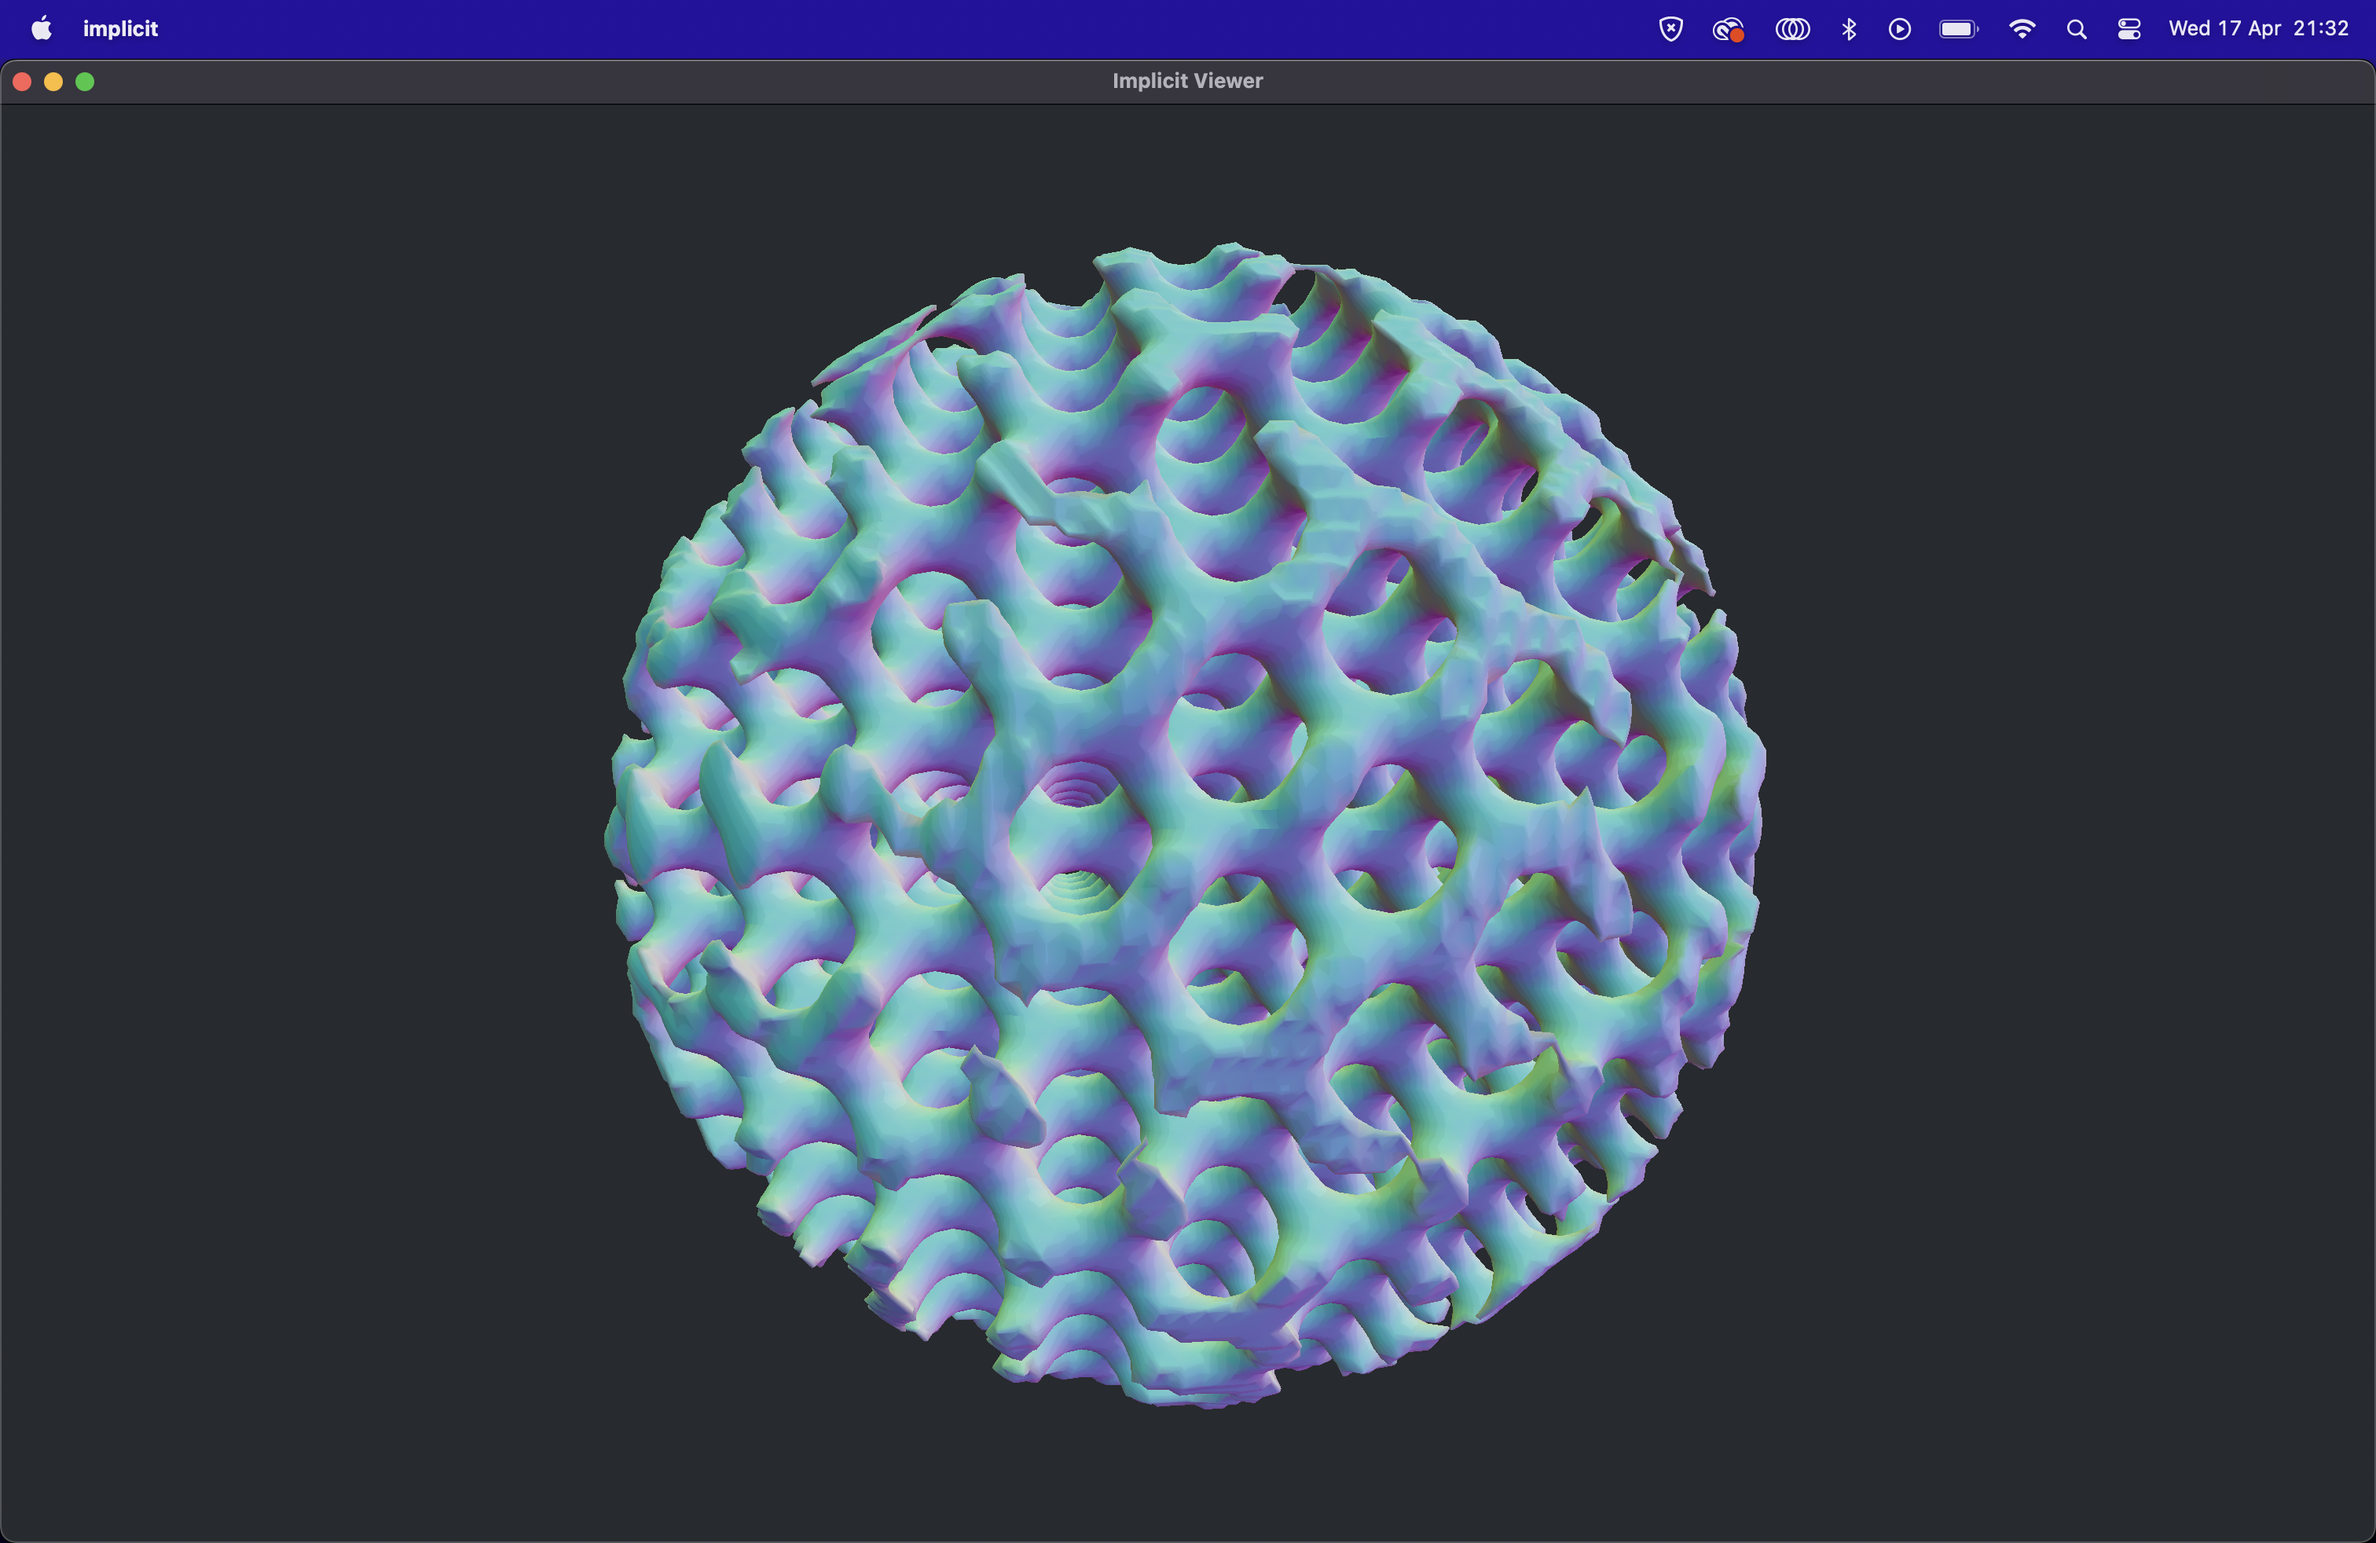
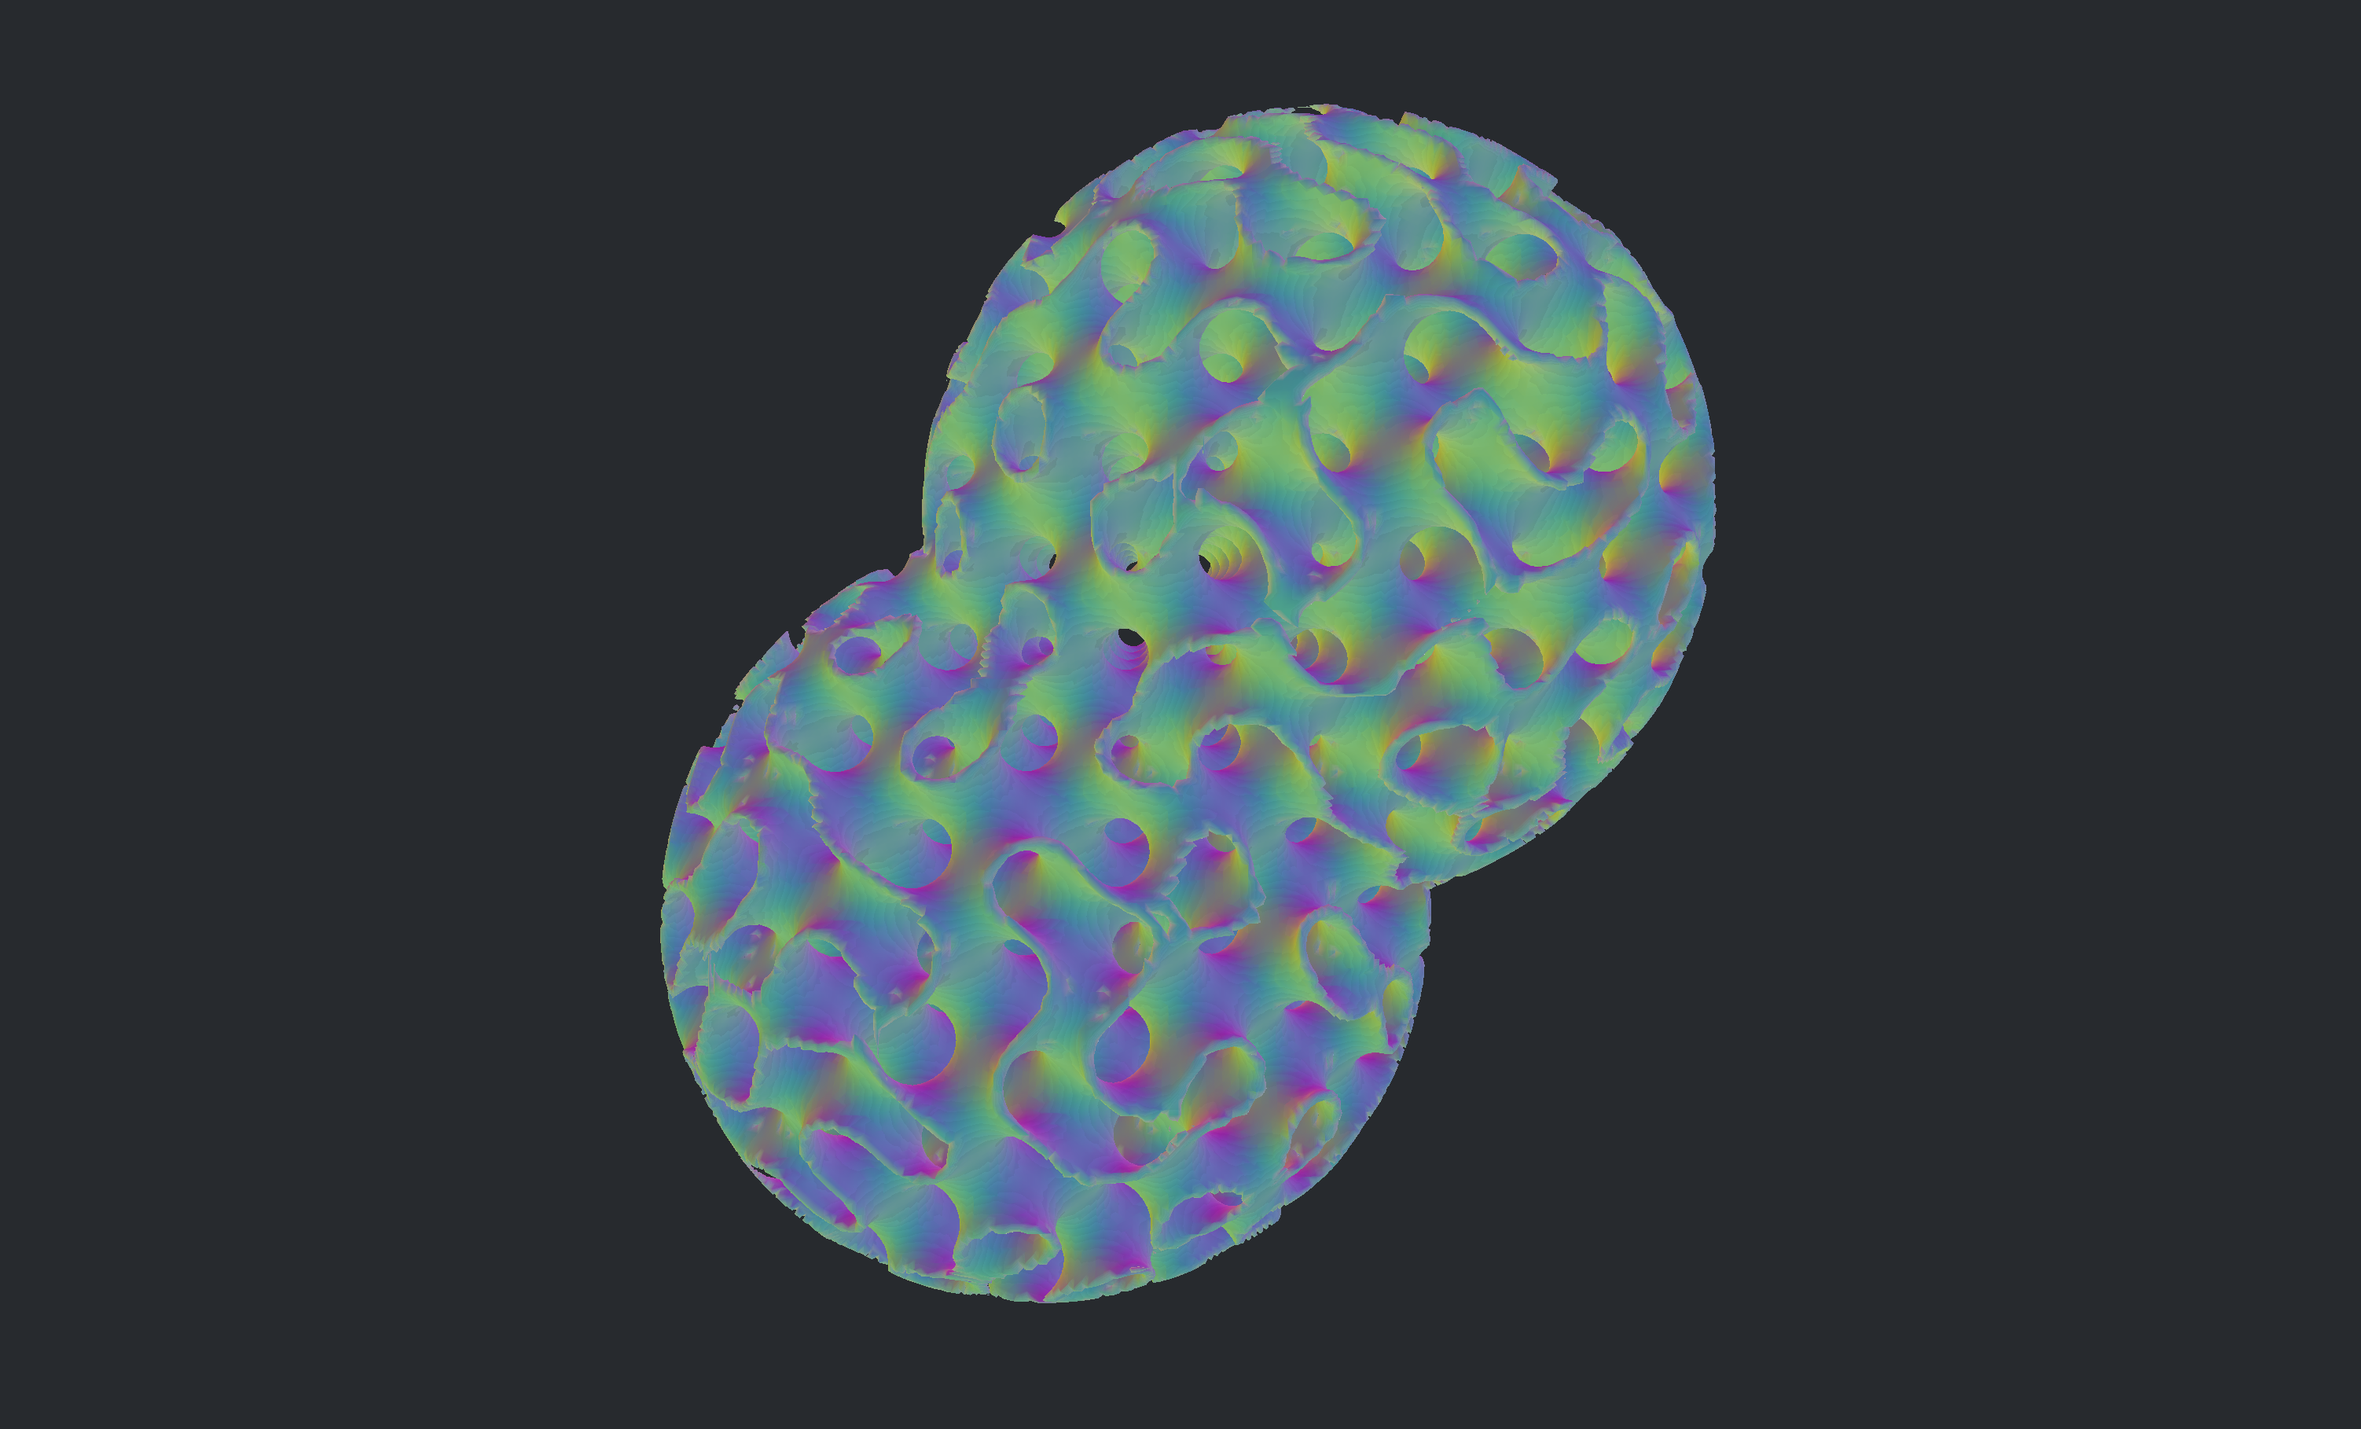
wip

diff --git a/src/examples/bitmask_gyroid.rs b/src/examples/bitmask_gyroid.rs
@@ -3,11 +3,11 @@ use std::time::Instant;
 use crate::{
     engine::{
         algorithms::marching_cubes::generate_iso_surface,
-        types::{DenseGridF32, Mesh, XYZ},
+        types::{DenseFieldF32, Mesh, XYZ},
         utils::implicit_functions::{
-            BitMask, Constant, GaussianMollifier, GyroidFunction, ImplicitIntersection, ImplicitProduct, ImplicitSmoothUnion, ImplicitUnion, Sphere
+            GyroidFunction, ImplicitDifference, ImplicitIntersection, ImplicitOffset, ImplicitSmoothUnion, Sphere
         },
-    }, examples::gyroid, viewer::{material::Material, window::run}
+    }, viewer::{material::Material, window::run}
 };
 
 pub fn run_bitmask_gyroid(num_pts: usize, size: f32, length: f32) {
@@ -29,10 +29,26 @@ pub fn run_bitmask_gyroid(num_pts: usize, size: f32, length: f32) {
         radius: 0.25 * size,
     };
 
-    let gyroid = GyroidFunction{
+    let gyroid = GyroidFunction {
         length_x: length,
         length_y: length,
         length_z: length,
+    };
+
+    let gyroid2 = GyroidFunction {
+        length_x: length,
+        length_y: length,
+        length_z: length,
+    };
+
+    let offset = ImplicitOffset{
+        f: gyroid2,
+        distance: -0.5
+    };
+
+    let thick_gyroid = ImplicitDifference{
+        f: offset,
+        g: gyroid
     };
 
     let spheres = ImplicitSmoothUnion{
@@ -41,11 +57,11 @@ pub fn run_bitmask_gyroid(num_pts: usize, size: f32, length: f32) {
     };
 
     let final_func = ImplicitIntersection{
-        f: gyroid,
+        f: thick_gyroid,
         g: spheres
     };
 
-    let mut grid = DenseGridF32::new(
+    let mut grid = DenseFieldF32::new(
         XYZ::origin(),
         size / (num_pts as f32),
         num_pts,
@@ -62,7 +78,7 @@ pub fn run_bitmask_gyroid(num_pts: usize, size: f32, length: f32) {
         before.elapsed()
     );
 
-    let triangles = generate_iso_surface(&grid, -0.75);
+    let triangles = generate_iso_surface(&grid, 0.0);
 
     let mesh = Mesh::from_triangles(&triangles);
 

diff --git a/src/engine/utils/implicit_functions.rs b/src/engine/utils/implicit_functions.rs
@@ -73,7 +73,7 @@ impl<F: ImplicitFunction, G: ImplicitFunction> ImplicitFunction for ImplicitSmoo
         let f_val = self.f.eval(x, y, z);
         let g_val = self.g.eval(x, y, z);
 
-        2.0/3.0*(f_val + g_val - (f_val.powi(2) + g_val.powi(2) - f_val * g_val).sqrt())
+        2.0 / 3.0 * (f_val + g_val - (f_val.powi(2) + g_val.powi(2) - f_val * g_val).sqrt())
     }
 }
 
@@ -88,6 +88,17 @@ impl<F: ImplicitFunction, G: ImplicitFunction> ImplicitFunction for ImplicitInte
     }
 }
 
+pub struct ImplicitDifference<F, G> {
+    pub f: F,
+    pub g: G,
+}
+
+impl<F: ImplicitFunction, G: ImplicitFunction> ImplicitFunction for ImplicitDifference<F, G> {
+    fn eval(&self, x: f32, y: f32, z: f32) -> f32 {
+        self.f.eval(x, y, z).max(-self.g.eval(x, y, z))
+    }
+}
+
 pub struct Constant {
     pub value: f32,
 }
@@ -98,14 +109,27 @@ impl ImplicitFunction for Constant {
     }
 }
 
+pub struct ImplicitOffset<F: ImplicitFunction> {
+    pub f: F,
+    pub distance: f32,
+}
+
+impl<F: ImplicitFunction> ImplicitFunction for ImplicitOffset<F> {
+    fn eval(&self, x: f32, y: f32, z: f32) -> f32 {
+        self.f.eval(x, y, z) + self.distance
+    }
+}
+
 pub struct GaussianMollifier {
-    pub size: f32
+    pub size: f32,
 }
 
 impl ImplicitFunction for GaussianMollifier {
     fn eval(&self, x: f32, y: f32, z: f32) -> f32 {
         let sigma = 10.0; // Adjust sigma for the desired smoothing effect
-        let r_squared = (x / self.size) * (x / self.size) + (y / self.size) * (y / self.size) + (z / self.size) * (z / self.size);
+        let r_squared = (x / self.size) * (x / self.size)
+            + (y / self.size) * (y / self.size)
+            + (z / self.size) * (z / self.size);
         let normalization = 1.0 / (sigma * (2.0 * PI).sqrt());
         let exponent = -r_squared / (2.0 * sigma * sigma);
         normalization * exponent.exp()

diff --git a/src/examples/gyroid.rs b/src/examples/gyroid.rs
@@ -1,9 +1,9 @@
 use std::time::Instant;
 
-use crate::{engine::{algorithms::marching_cubes::generate_iso_surface, types::{DenseGridF32, Mesh, XYZ}, utils::{implicit_functions::GyroidFunction, io::write_as_obj}}, viewer::{material::Material, window::run}};
+use crate::{engine::{algorithms::marching_cubes::generate_iso_surface, types::{DenseFieldF32, Mesh, XYZ}, utils::implicit_functions::{GyroidFunction, ImplicitDifference, ImplicitIntersection, ImplicitOffset}}, viewer::{material::Material, window::run}};
 
 pub fn run_gyroid(num_pts: usize, size: f32, length: f32){
-    let mut grid = DenseGridF32::new(
+    let mut grid = DenseFieldF32::new(
         XYZ::origin(),
         size / (num_pts as f32),
         num_pts,
@@ -17,8 +17,24 @@ pub fn run_gyroid(num_pts: usize, size: f32, length: f32){
         length_z: length,
     };
 
+    let _gyroid2 = GyroidFunction {
+        length_x: length,
+        length_y: length,
+        length_z: length,
+    };
+
+    let offset = ImplicitOffset{
+        f: _gyroid2,
+        distance: -0.1
+    };
+
+    let diff = ImplicitDifference{
+        f: offset,
+        g: _gyroid
+    };
+
     let before = Instant::now();
-    grid.evaluate(&_gyroid);
+    grid.evaluate(&diff);
 
     println!(
         "Dense value buffer for {} points generated in {:.2?}",

diff --git a/src/engine/types/dense_field.rs b/src/engine/types/dense_field.rs
@@ -2,7 +2,7 @@ use super::ImplicitFunction;
 use super::XYZ;
 
 #[derive(Debug, Clone)]
-pub struct DenseGridF32 {
+pub struct DenseFieldF32 {
     origin: XYZ,
     cell_size: f32,
     num_x: usize,
@@ -12,15 +12,15 @@ pub struct DenseGridF32 {
     buffer: Vec<f32>,
 }
 
-impl DenseGridF32 {
+impl DenseFieldF32 {
     pub fn new(
         origin: XYZ,
         cell_size: f32,
         size_x: usize,
         sixe_y: usize,
         size_z: usize,
-    ) -> DenseGridF32 {
-        DenseGridF32 {
+    ) -> DenseFieldF32 {
+        DenseFieldF32 {
             origin: origin,
             cell_size: cell_size,
             num_x: size_x,

diff --git a/src/engine/algorithms/marching_cubes.rs b/src/engine/algorithms/marching_cubes.rs
@@ -1,9 +1,9 @@
 use crate::engine::types::XYZ;
-use crate::engine::types::DenseGridF32;
+use crate::engine::types::DenseFieldF32;
 use crate::engine::types::Triangle;
 use super::tables::*;
 
-pub fn generate_iso_surface(grid: &DenseGridF32, iso_val: f32) -> Vec<Triangle> {
+pub fn generate_iso_surface(grid: &DenseFieldF32, iso_val: f32) -> Vec<Triangle> {
     let mut triangles: Vec<Triangle> = Vec::new();
 
     // Generate triangles for cell

diff --git a/src/engine/types/mesh.rs b/src/engine/types/mesh.rs
@@ -77,7 +77,7 @@ impl Mesh {
         let face_normals: Vec<XYZ> = self.compute_face_normals();
         let vertex_faces: Vec<Vec<usize>> = self.compute_vertex_faces();
 
-        for (id, v) in self.vertices.iter().enumerate(){
+        for id in 0..self.num_vertices(){
             let mut n = XYZ::origin();
             for &f in &vertex_faces[id]{
                 n = n + face_normals[f];

diff --git a/src/lib.rs b/src/lib.rs
@@ -4,13 +4,13 @@ pub mod engine{
         mod tables;
     }
     pub mod types {
-        mod data_grid;
+        mod dense_field;
         mod hash_grid;
         mod implicit_func;
         mod mesh;
         mod xyz;
     
-        pub use data_grid::*;
+        pub use dense_field::*;
         pub use implicit_func::*;
         pub use mesh::*;
         pub use xyz::*;

diff --git a/src/engine/types/hash_grid.rs b/src/engine/types/hash_grid.rs
@@ -10,6 +10,7 @@ pub struct SpatialHashGrid {
 }
 
 impl SpatialHashGrid {
+    #[allow(dead_code)]
     pub fn new() -> Self {
         SpatialHashGrid {
             map: HashMap::new(),

diff --git a/src/main.rs b/src/main.rs
@@ -2,5 +2,5 @@ use implicit::examples::*;
 
 fn main() {
     //run_gyroid(75, 50.0, 10.0);
-    run_bitmask_gyroid(200, 50.0, 5.0);
+    run_bitmask_gyroid(250, 50.0, 5.0);
 }

diff --git a/src/viewer/window.rs b/src/viewer/window.rs
@@ -1,4 +1,4 @@
-use std::{cmp::max, default, iter};
+use std::{iter};
 
 use cgmath::Point3;
 use wgpu::util::DeviceExt;
